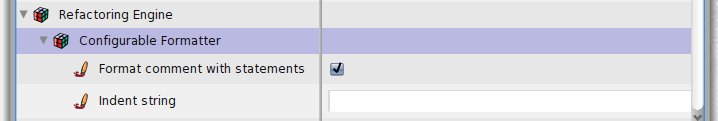
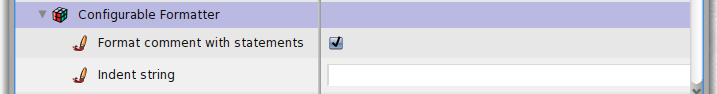
setting tree
git-svn-id: https://www.iam.unibe.ch/scg/svn_repos/SqueakByExample/PharoBook@33608 54883e8d-cf1d-0410-83d6-f114b9419f37

diff --git a/Settings/Settings.tex b/Settings/Settings.tex
@@ -225,23 +225,32 @@ CodeHolderSystemSettings class>>codeEditingSettingsOn: aBuilder
 \end{code}
 Notice that the \ct{#codeEditing} node is created by sending the \ct{#group:} message to the builder with its identifier passed as argument. A group is a simple node without any value and which is only used for children grouping. Notice also that, as shown in the \figref{fig:caseSensitiveFinds1}, the \ct{#codeEditing} node is not at root because it is declared itself as a child of the \ct{#codeBrowsing} node.
 
-\subsubsection{declaring a sub-tree}
-Being able to declare its own settings as a child of a pre-existing node is very useful especially when a package wants to enrich existing standard settings. But it can also be very tedious especially for settings which are very application specific. 
+\subsubsection{Declaring a sub-tree}
 
-Thus, directly declaring a sub-tree of settings in one method is also possible. Then, typically, a root group is declared for the application settings and the children settings themselves are also declared within the same method. This is simply done through the sending of the \ct{with:} message to the root group. The \ct{with:} message takes a block as argument. In this block, a new setting built by the builder is implicitely declared as a child of the root group (the receiver of the \ct{with:} message). As an example, take a look at how the \textit{Refactoring Browser} is declaring settings related to the \textit{Configurable Formatter}:
+Being able to declare its own settings as a child of a pre-existing node is very useful when a package wants to enrich existing standard settings. But it can also be very tedious for settings which are very application specific. 
+
+Thus, directly declaring a sub-tree of settings in one method is also possible. Then, typically, a root group is declared for the application settings and the children settings themselves are also declared within the same method. This is simply done through the sending of the \ct{with:} message to the root group. The \ct{with:} message takes a block as argument. In this block, every new settings are implicitely declared as children of the root group (the receiver of the \ct{with:} message). 
+
+\begin{figure}[tbh]
+\begin{center}
+\includegraphics[scale=0.47]{configurableFormatter}
+\caption{Declaring a subtree in one method: the \textit{Configurable formatter} setting example}
+\figlabel{fig:configurableFormatter}
+\end{center}
+\end{figure}
+As an example, take a look at figure \figref{fig:configurableFormatter}, it shows the settings for the refactoring browser configurable formatter. This sub-tree of settings is fully declared in the method \ct{RBConfigurableFormatter class>>settingsOn:} given below. You can see that it declares the new root group \ct{#configurableFormatter} with two children, \ct{#formatCommentWithStatements} and \ct{#indentString}:
 \begin{code}{}
 RBConfigurableFormatter class>>settingsOn: aBuilder
 	<systemsettings>	
 	(aBuilder group: #configurableFormatter)
+		target: self;
 		parent: #refactoring;
 		label: 'Configurable Formatter' translated;
 		description: 'Settings related to the formatter' translated;
 		with: [
 			(aBuilder setting: #formatCommentWithStatements)
-				target: self;
 				label: 'Format comment with statements' translated.
 			(aBuilder setting: #indentString)
-				target: self;
 				label: 'Indent string' translated]
 \end{code}
 
